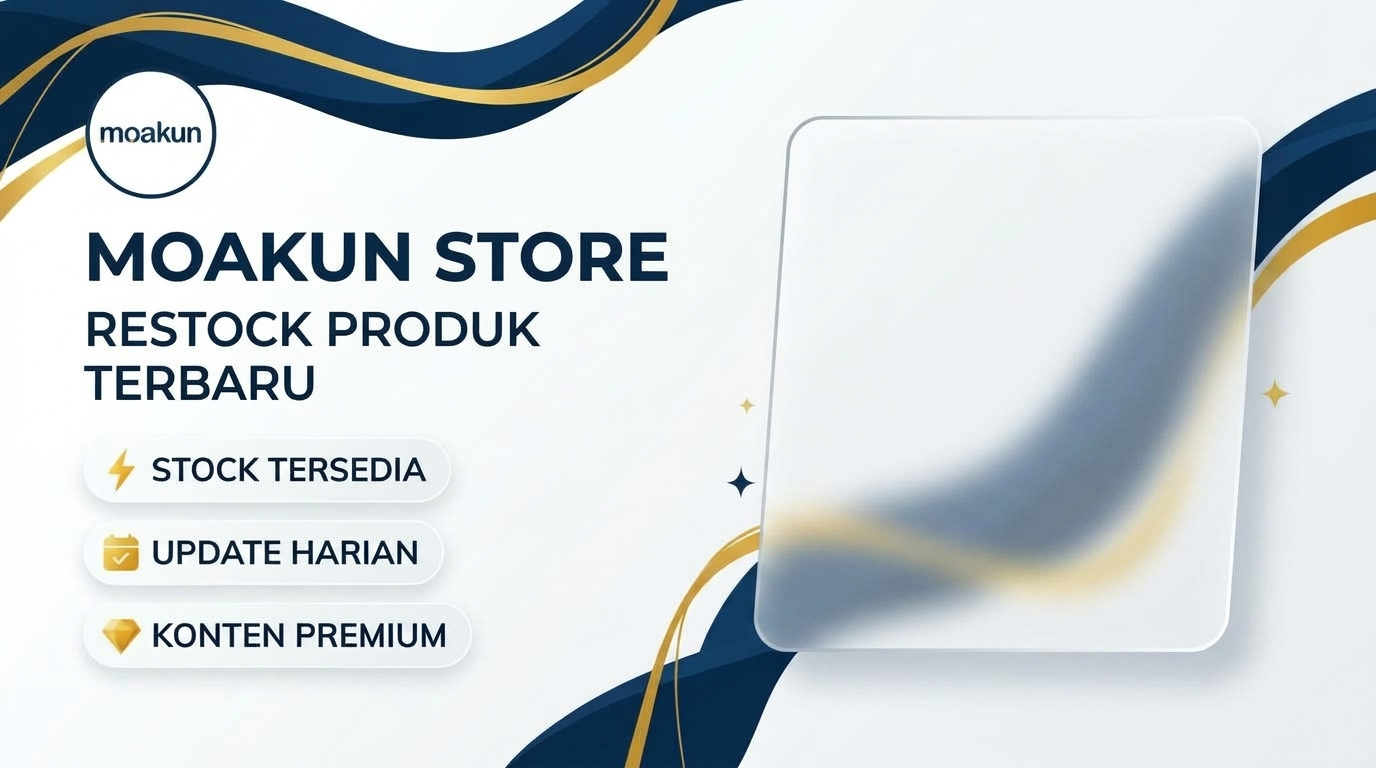
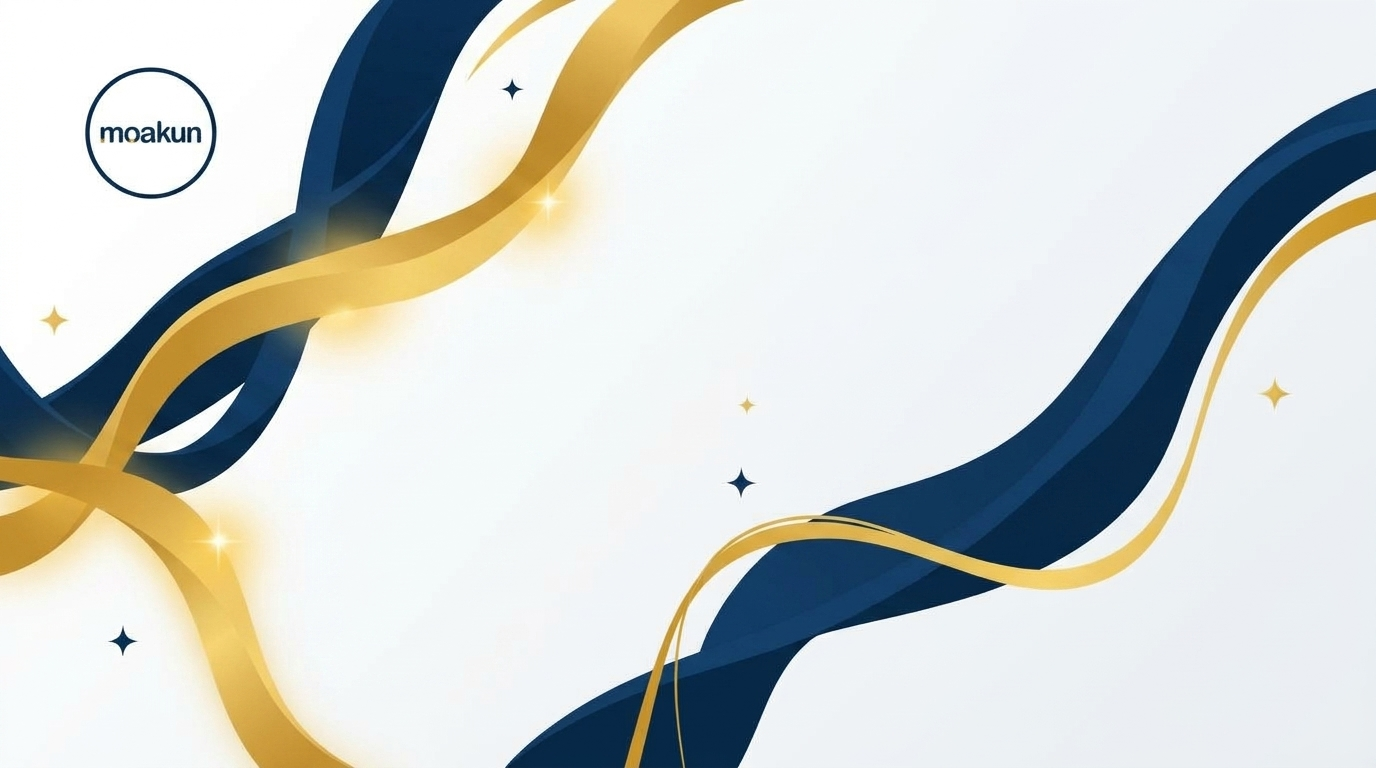
feat: sempurnakan restock card dengan layout seimbang, golden halo, kartu floating lurus, dan trust badges

diff --git a/index.js b/index.js
@@ -405,7 +405,7 @@ async function generateRestockCard({ productName, addedCount, totalStock, addedB
     const canvas = createCanvas(width, height);
     const ctx = canvas.getContext('2d');
 
-    // 1. Try to load and draw the 16:9 Moakun Store background template
+    // 1. Draw 16:9 Moakun Store background template
     let bgLoaded = false;
     const tmplPath = path.join(__dirname, 'assets', 'restock_template.jpg');
     if (loadImage && fs.existsSync(tmplPath)) {
@@ -444,127 +444,210 @@ async function generateRestockCard({ productName, addedCount, totalStock, addedB
       ctx.bezierCurveTo(800, 50, 400, 100, 0, 0);
       ctx.closePath();
       ctx.fill();
-
-      // Brand Title on Left
-      ctx.fillStyle = '#0a192f';
-      ctx.font = 'bold 44px sans-serif';
-      ctx.textAlign = 'left';
-      ctx.fillText(config.STORE_NAME || 'MOAKUN STORE', 90, 240);
-
-      ctx.fillStyle = '#1e3a5f';
-      ctx.font = 'bold 24px sans-serif';
-      ctx.fillText('RESTOCK PRODUK TERBARU', 90, 285);
     }
 
-    // Right Glass Card overlay coordinates
-    // In our 1376x768 template, the frosted glass card center is at x: 1045, width: 440
-    const cardCenterX = 1045;
-    const cardTopY = 175;
-    const cardWidth = 430;
+    const cleanAdmin = String(addedBy || 'Admin').replace(/^@/, '');
+    const cleanProdName = String(productName || 'Produk').trim();
 
-    // 1. Status Pill Badge (Top of right card)
-    ctx.fillStyle = 'rgba(10, 25, 47, 0.9)';
-    ctx.shadowColor = 'rgba(0, 0, 0, 0.15)';
+    // ==========================================
+    // LEFT COLUMN: Branding & Product Showcase
+    // ==========================================
+    const leftX = 90;
+
+    // 1. Restock Tag Badge
+    ctx.fillStyle = '#0a192f';
+    ctx.shadowColor = 'rgba(10, 25, 47, 0.15)';
     ctx.shadowBlur = 10;
-    ctx.shadowOffsetY = 4;
-    drawRoundRect(ctx, cardCenterX - 110, cardTopY, 220, 36, 18, true, false);
+    ctx.shadowOffsetY = 3;
+    drawRoundRect(ctx, leftX, 230, 210, 36, 18, true, false);
     ctx.shadowColor = 'transparent';
 
     ctx.fillStyle = '#e5b85a';
     ctx.font = 'bold 13px sans-serif';
     ctx.textAlign = 'center';
-    ctx.fillText('✦ RESTOCK READY ✦', cardCenterX, cardTopY + 23);
+    ctx.fillText('✦ RESTOCK PRODUK ✦', leftX + 105, 253);
 
-    // 2. Product Name with dynamic font sizing & word wrapping (Bans overflow!)
-    const cleanProdName = String(productName || '').trim();
-    let fontSize = 24;
-    if (cleanProdName.length > 40) fontSize = 20;
-    else if (cleanProdName.length > 28) fontSize = 22;
-
+    // 2. Brand Headline
+    ctx.textAlign = 'left';
     ctx.fillStyle = '#0a192f';
-    ctx.font = `bold ${fontSize}px sans-serif`;
-    const lines = wrapCanvasText(ctx, cleanProdName, cardWidth - 20);
+    ctx.font = 'bold 44px sans-serif';
+    ctx.fillText(config.STORE_NAME || 'MOAKUN STORE', leftX, 318);
 
-    let textY = cardTopY + 70;
-    const maxLines = 3;
+    ctx.fillStyle = '#64748b';
+    ctx.font = 'bold 18px sans-serif';
+    ctx.fillText('Update Stok Akun & Layanan Digital', leftX, 350);
+
+    // 3. Product Showcase Glass Card
+    const cardW = 680;
+    const cardH = 175;
+    const cardY = 380;
+
+    ctx.fillStyle = 'rgba(255, 255, 255, 0.95)';
+    ctx.strokeStyle = 'rgba(15, 34, 63, 0.1)';
+    ctx.lineWidth = 1.5;
+    ctx.shadowColor = 'rgba(10, 25, 47, 0.08)';
+    ctx.shadowBlur = 20;
+    ctx.shadowOffsetY = 6;
+    drawRoundRect(ctx, leftX, cardY, cardW, cardH, 20, true, true);
+    ctx.shadowColor = 'transparent';
+
+    // Top gold highlight bar on card
+    ctx.fillStyle = '#e5b85a';
+    drawRoundRect(ctx, leftX + 20, cardY, cardW - 40, 4, 2, true, false);
+
+    // Small Ready badge inside card
+    ctx.fillStyle = 'rgba(16, 185, 129, 0.12)';
+    ctx.strokeStyle = 'rgba(16, 185, 129, 0.3)';
+    ctx.lineWidth = 1;
+    drawRoundRect(ctx, leftX + 25, cardY + 22, 130, 28, 14, true, true);
+
+    ctx.fillStyle = '#059669';
+    ctx.font = 'bold 12px sans-serif';
+    ctx.textAlign = 'center';
+    ctx.fillText('● READY STOCK', leftX + 90, cardY + 41);
+
+    // Product Title (Wrapped cleanly, no overflow!)
+    ctx.textAlign = 'left';
+    ctx.fillStyle = '#0a192f';
+    let prodFontSize = 26;
+    if (cleanProdName.length > 40) prodFontSize = 22;
+    else if (cleanProdName.length > 30) prodFontSize = 24;
+
+    ctx.font = `bold ${prodFontSize}px sans-serif`;
+    const lines = wrapCanvasText(ctx, cleanProdName, cardW - 50);
+
+    let prodY = cardY + 84;
+    const maxLines = 2;
     for (let i = 0; i < Math.min(lines.length, maxLines); i++) {
       let lineStr = lines[i];
       if (i === maxLines - 1 && lines.length > maxLines) lineStr += '...';
-      ctx.fillText(lineStr, cardCenterX, textY);
-      textY += (fontSize + 8);
+      ctx.fillText(lineStr, leftX + 25, prodY);
+      prodY += (prodFontSize + 8);
     }
 
-    // 3. Stats Grid (2 cards: Masuk & Total Stok)
-    const statsY = Math.max(textY + 12, cardTopY + 155);
-    const boxW = 190;
-    const boxH = 88;
-    const box1X = cardCenterX - boxW - 10;
-    const box2X = cardCenterX + 10;
-
-    // Box 1: Masuk (+X pcs)
-    ctx.fillStyle = 'rgba(255, 255, 255, 0.92)';
-    ctx.strokeStyle = 'rgba(16, 185, 129, 0.35)';
-    ctx.lineWidth = 1.5;
-    ctx.shadowColor = 'rgba(16, 185, 129, 0.12)';
-    ctx.shadowBlur = 10;
-    ctx.shadowOffsetY = 3;
-    drawRoundRect(ctx, box1X, statsY, boxW, boxH, 16, true, true);
-
+    // Sub-info inside card (Date & Admin)
     ctx.fillStyle = '#64748b';
-    ctx.font = 'bold 12px sans-serif';
-    ctx.fillText('STOK MASUK', box1X + boxW / 2, statsY + 28);
+    ctx.font = '13px sans-serif';
+    ctx.fillText(`🕒 ${dateStr}   •   Ditambahkan oleh: @${cleanAdmin}`, leftX + 25, cardY + 150);
 
-    ctx.fillStyle = '#059669';
-    ctx.font = 'bold 26px sans-serif';
-    ctx.fillText(`+${addedCount} Pcs`, box1X + boxW / 2, statsY + 65);
+    // 4. Trust Badges below card
+    const badgeY = 585;
+    const pillW = 215;
+    const pillH = 42;
+    const pills = [
+      { icon: '⚡', text: 'Instant 24/7 Delivery' },
+      { icon: '🛡', text: '100% Full Warranty' },
+      { icon: '💳', text: 'Auto QRIS Payment' }
+    ];
 
-    // Box 2: Total Tersedia (Y pcs)
-    ctx.fillStyle = 'rgba(255, 255, 255, 0.92)';
-    ctx.strokeStyle = 'rgba(217, 119, 6, 0.35)';
-    ctx.lineWidth = 1.5;
-    ctx.shadowColor = 'rgba(217, 119, 6, 0.12)';
-    ctx.shadowBlur = 10;
-    ctx.shadowOffsetY = 3;
-    drawRoundRect(ctx, box2X, statsY, boxW, boxH, 16, true, true);
+    pills.forEach((p, idx) => {
+      const px = leftX + (idx * (pillW + 16));
+      ctx.fillStyle = 'rgba(255, 255, 255, 0.9)';
+      ctx.strokeStyle = 'rgba(15, 34, 63, 0.08)';
+      ctx.lineWidth = 1;
+      ctx.shadowColor = 'rgba(10, 25, 47, 0.05)';
+      ctx.shadowBlur = 10;
+      ctx.shadowOffsetY = 3;
+      drawRoundRect(ctx, px, badgeY, pillW, pillH, 21, true, true);
+      ctx.shadowColor = 'transparent';
+
+      ctx.fillStyle = '#1e293b';
+      ctx.font = 'bold 12px sans-serif';
+      ctx.textAlign = 'center';
+      ctx.fillText(`${p.icon} ${p.text}`, px + pillW / 2, badgeY + 26);
+    });
+
+    // ==========================================
+    // RIGHT COLUMN: Floating Stats Cards & CTA
+    // ==========================================
+    const rightX = 840;
+    const rightW = 440;
+
+    // --- Card 1: STOK MASUK ---
+    const card1Y = 170;
+    const card1H = 150;
+
+    // Golden glow behind Card 1
+    const glow1 = ctx.createRadialGradient(rightX + rightW / 2, card1Y + card1H / 2, 20, rightX + rightW / 2, card1Y + card1H / 2, 200);
+    glow1.addColorStop(0, 'rgba(246, 196, 69, 0.25)');
+    glow1.addColorStop(1, 'rgba(246, 196, 69, 0)');
+    ctx.fillStyle = glow1;
+    ctx.fillRect(rightX - 30, card1Y - 30, rightW + 60, card1H + 60);
+
+    ctx.fillStyle = 'rgba(255, 255, 255, 0.94)';
+    ctx.strokeStyle = 'rgba(16, 185, 129, 0.4)';
+    ctx.lineWidth = 2;
+    ctx.shadowColor = 'rgba(16, 185, 129, 0.12)';
+    ctx.shadowBlur = 20;
+    ctx.shadowOffsetY = 6;
+    drawRoundRect(ctx, rightX, card1Y, rightW, card1H, 22, true, true);
     ctx.shadowColor = 'transparent';
 
+    ctx.textAlign = 'left';
     ctx.fillStyle = '#64748b';
-    ctx.font = 'bold 12px sans-serif';
-    ctx.fillText('TOTAL TERSEDIA', box2X + boxW / 2, statsY + 28);
+    ctx.font = 'bold 13px sans-serif';
+    ctx.fillText('STOK MASUK BARU', rightX + 30, card1Y + 40);
+
+    ctx.fillStyle = '#059669';
+    ctx.font = 'bold 50px sans-serif';
+    ctx.fillText(`+${addedCount} Pcs`, rightX + 30, card1Y + 98);
+
+    ctx.fillStyle = '#94a3b8';
+    ctx.font = '13px sans-serif';
+    ctx.fillText('Stok produk telah sukses ditambahkan', rightX + 30, card1Y + 128);
+
+    // --- Card 2: TOTAL TERSEDIA ---
+    const card2Y = 350;
+    const card2H = 150;
+
+    // Golden glow behind Card 2
+    const glow2 = ctx.createRadialGradient(rightX + rightW / 2, card2Y + card2H / 2, 20, rightX + rightW / 2, card2Y + card2H / 2, 200);
+    glow2.addColorStop(0, 'rgba(246, 196, 69, 0.25)');
+    glow2.addColorStop(1, 'rgba(246, 196, 69, 0)');
+    ctx.fillStyle = glow2;
+    ctx.fillRect(rightX - 30, card2Y - 30, rightW + 60, card2H + 60);
+
+    ctx.fillStyle = 'rgba(255, 255, 255, 0.94)';
+    ctx.strokeStyle = 'rgba(217, 119, 6, 0.4)';
+    ctx.lineWidth = 2;
+    ctx.shadowColor = 'rgba(217, 119, 6, 0.12)';
+    ctx.shadowBlur = 20;
+    ctx.shadowOffsetY = 6;
+    drawRoundRect(ctx, rightX, card2Y, rightW, card2H, 22, true, true);
+    ctx.shadowColor = 'transparent';
+
+    ctx.textAlign = 'left';
+    ctx.fillStyle = '#64748b';
+    ctx.font = 'bold 13px sans-serif';
+    ctx.fillText('TOTAL STOK TERSEDIA', rightX + 30, card2Y + 40);
 
     ctx.fillStyle = '#d97706';
-    ctx.font = 'bold 26px sans-serif';
-    ctx.fillText(`${totalStock} Pcs`, box2X + boxW / 2, statsY + 65);
+    ctx.font = 'bold 50px sans-serif';
+    ctx.fillText(`${totalStock} Pcs`, rightX + 30, card2Y + 98);
 
-    // 4. Details info bar (Date & Admin)
-    const detailY = statsY + boxH + 18;
-    ctx.fillStyle = 'rgba(255, 255, 255, 0.85)';
-    ctx.strokeStyle = 'rgba(15, 34, 63, 0.08)';
-    ctx.lineWidth = 1;
-    drawRoundRect(ctx, cardCenterX - (cardWidth / 2), detailY, cardWidth, 40, 12, true, true);
+    ctx.fillStyle = '#94a3b8';
+    ctx.font = '13px sans-serif';
+    ctx.fillText('Siap langsung diorder otomatis via bot', rightX + 30, card2Y + 128);
 
-    ctx.fillStyle = '#475569';
-    ctx.font = '12px sans-serif';
-    const cleanAdmin = (addedBy || 'Admin').replace('@', '');
-    ctx.fillText(`Waktu: ${dateStr}   •   Admin: @${cleanAdmin}`, cardCenterX, detailY + 25);
-
-    // 5. Call-to-action button
-    const btnY = detailY + 56;
-    const btnW = 360;
-    const btnH = 50;
-    const btnGrad = ctx.createLinearGradient(cardCenterX - btnW / 2, btnY, cardCenterX + btnW / 2, btnY);
+    // --- Card 3: CTA Button ---
+    const btnY = 530;
+    const btnH = 68;
+    const btnGrad = ctx.createLinearGradient(rightX, btnY, rightX + rightW, btnY);
     btnGrad.addColorStop(0, '#0a192f');
     btnGrad.addColorStop(1, '#163a66');
     ctx.fillStyle = btnGrad;
-    ctx.shadowColor = 'rgba(10, 25, 47, 0.25)';
-    ctx.shadowBlur = 14;
-    ctx.shadowOffsetY = 5;
-    drawRoundRect(ctx, cardCenterX - btnW / 2, btnY, btnW, btnH, 25, true, false);
+    ctx.strokeStyle = '#e5b85a';
+    ctx.lineWidth = 2;
+    ctx.shadowColor = 'rgba(10, 25, 47, 0.3)';
+    ctx.shadowBlur = 18;
+    ctx.shadowOffsetY = 8;
+    drawRoundRect(ctx, rightX, btnY, rightW, btnH, 34, true, true);
     ctx.shadowColor = 'transparent';
 
+    ctx.textAlign = 'center';
     ctx.fillStyle = '#ffffff';
-    ctx.font = 'bold 15px sans-serif';
-    ctx.fillText('ORDER SEKARANG VIA BOT', cardCenterX, btnY + 31);
+    ctx.font = 'bold 18px sans-serif';
+    ctx.fillText('ORDER SEKARANG VIA BOT ➔', rightX + rightW / 2, btnY + 42);
 
     return canvas.toBuffer('image/png');
   } catch (e) {
